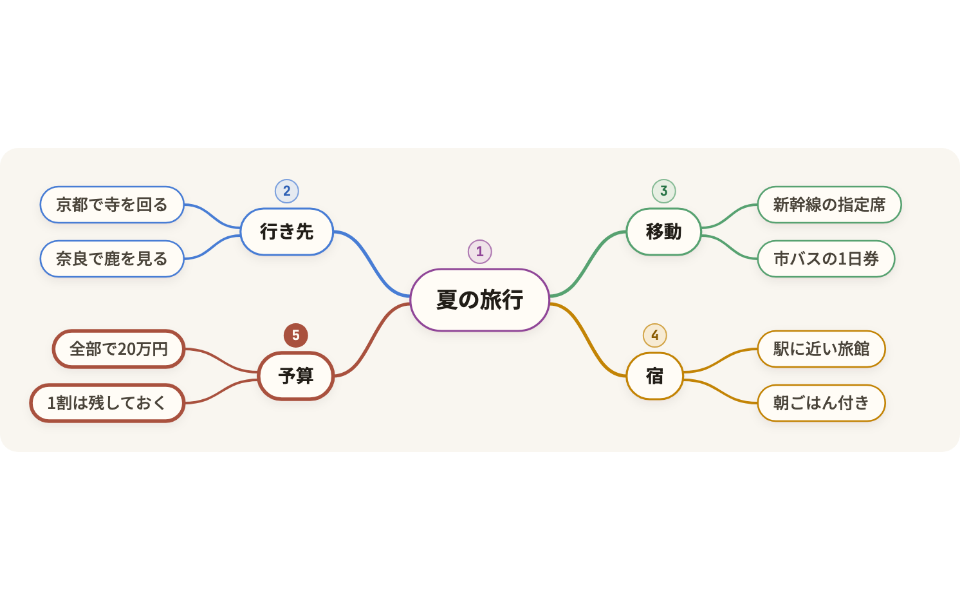
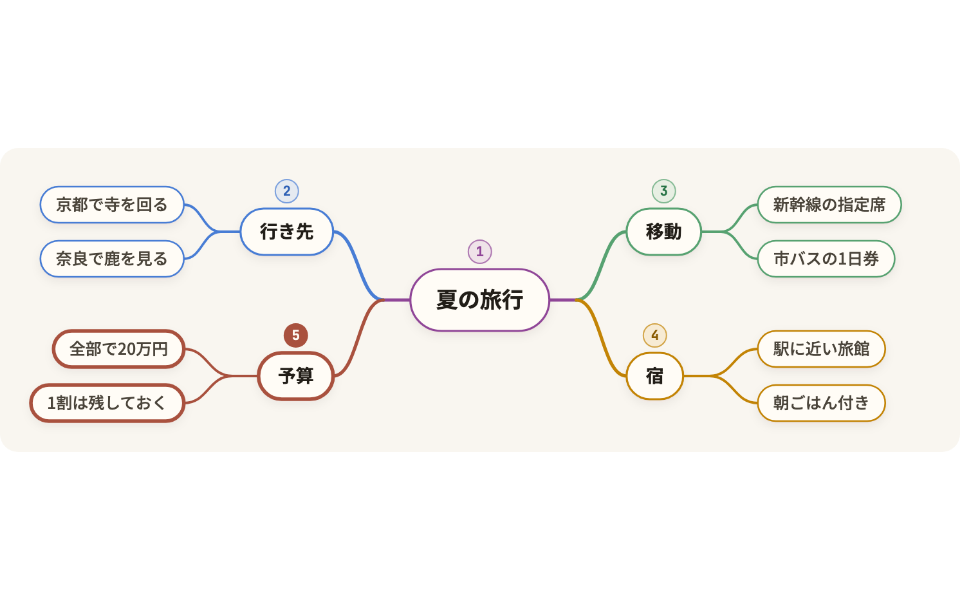
🎨 chore(版): マインドマップの線を幹にまとめる変更 (#3960) を0.86.0として出す (#3988)
packageとプラグインの版、変更の一覧の0.86.0の節、jsDelivrの1行、版の札、前提の配り方の行を0.86.0に上げる。
#3960のPRで描き直していなかったREADMEのマインドマップの絵4枚を、幹の形で描き直す。

diff --git a/packages/dragon/test/cdn-page-support.ts b/packages/dragon/test/cdn-page-support.ts
@@ -36,7 +36,7 @@ export type SiteFiles = Readonly<Record<string, string | Buffer>>;
 /** script の1行の入口を読む HTML の頁。`body` は頁の中身 */
 export const cdnPage = (body: string, lang = "ja"): string =>
   `<!doctype html><html lang="${lang}"><head><meta charset="utf-8"><meta name="viewport" content="width=device-width, initial-scale=1">` +
-  `<script type="module" src="https://cdn.jsdelivr.net/npm/@cardenelabs/dragon@0.85/dist/cdn/dragon.js"></script></head><body>${body}</body></html>`;
+  `<script type="module" src="https://cdn.jsdelivr.net/npm/@cardenelabs/dragon@0.86/dist/cdn/dragon.js"></script></head><body>${body}</body></html>`;
 
 /** HTML の字として書けるよう、`<` と `&` を逃がす */
 export const escapeHtml = (text: string): string =>

diff --git a/apps/playground-spa/src/docs/content.ts b/apps/playground-spa/src/docs/content.ts
@@ -123,7 +123,7 @@ export const COMMANDS: Partial<Record<SectionId, readonly (string | null)[]>> = 
   embed: [
     null,
     [
-      '<script type="module" src="https://cdn.jsdelivr.net/npm/@cardenelabs/dragon@0.85/dist/cdn/dragon.js"></script>',
+      '<script type="module" src="https://cdn.jsdelivr.net/npm/@cardenelabs/dragon@0.86/dist/cdn/dragon.js"></script>',
       "",
       '<pre class="dragon" data-header>',
       "sequence Take an order",

diff --git a/packages/dragon/README.md b/packages/dragon/README.md
@@ -163,7 +163,7 @@ The block turns into a diagram that plays.
 There is nothing to install or build.
 
 ```html
-<script type="module" src="https://cdn.jsdelivr.net/npm/@cardenelabs/dragon@0.85/dist/cdn/dragon.js"></script>
+<script type="module" src="https://cdn.jsdelivr.net/npm/@cardenelabs/dragon@0.86/dist/cdn/dragon.js"></script>
 
 <pre class="dragon">
 sequence Ask to sign in
@@ -470,7 +470,7 @@ A new notation word gets its element with the next release, so `dragon convert d
 HTML does not close `<dg-box/>`, so close every element with its end tag.
 
 ```html
-<script type="module" src="https://cdn.jsdelivr.net/npm/@cardenelabs/dragon@0.85/dist/cdn/dragon.js"></script>
+<script type="module" src="https://cdn.jsdelivr.net/npm/@cardenelabs/dragon@0.86/dist/cdn/dragon.js"></script>
 
 <dg-sequence title="Take an order">
   <dg-box id="shop">Shop</dg-box>
@@ -635,7 +635,7 @@ Custom buttons need a click handler, so they cannot go here.
 If the settings block is not valid JSON or names an unknown button, every `data-header` block shows that error instead.
 
 ```html
-<script type="module" src="https://cdn.jsdelivr.net/npm/@cardenelabs/dragon@0.85/dist/cdn/dragon.js"></script>
+<script type="module" src="https://cdn.jsdelivr.net/npm/@cardenelabs/dragon@0.86/dist/cdn/dragon.js"></script>
 
 <pre class="dragon" data-header>
 sequence Take an order

diff --git a/plugins/dragon/skills/dragon/references/embed.md b/plugins/dragon/skills/dragon/references/embed.md
@@ -17,7 +17,7 @@ All four draw the same diagram from the same notation. Check the notation with `
 Add `data-header` to the `<pre class="dragon">` block. Blocks without it stay plain diagrams. Pin the version to `<major>.<minor>` of the installed package.
 
 ```html
-<script type="module" src="https://cdn.jsdelivr.net/npm/@cardenelabs/dragon@0.85/dist/cdn/dragon.js"></script>
+<script type="module" src="https://cdn.jsdelivr.net/npm/@cardenelabs/dragon@0.86/dist/cdn/dragon.js"></script>
 
 <pre class="dragon" data-header>
 sequence Take an order
@@ -78,7 +78,7 @@ Words and numbers are attributes, a box name or a line label is the element text
 Close every element with its end tag. HTML does not close `<dg-box/>`.
 
 ```html
-<script type="module" src="https://cdn.jsdelivr.net/npm/@cardenelabs/dragon@0.85/dist/cdn/dragon.js"></script>
+<script type="module" src="https://cdn.jsdelivr.net/npm/@cardenelabs/dragon@0.86/dist/cdn/dragon.js"></script>
 
 <dg-sequence title="Take an order">
   <dg-box id="shop">Shop</dg-box>

diff --git a/CHANGELOG.md b/CHANGELOG.md
@@ -6,6 +6,8 @@ The same record in Japanese is in [`CHANGELOG.ja.md`](CHANGELOG.ja.md).
 
 ## [Unreleased]
 
+## [0.86.0] - 2026-11-26
+
 ### Changed
 
 - In a `mind` diagram, the lines from one idea to its children on the same side no longer leave the idea's edge at separate spots, which made a branch with many leaves look like a row of parallel lines stuck into its box. They now leave the middle of the edge as one short trunk in the idea's color, 35% of the way to the children, and split from the tip of the trunk into curves in each child's color. Lines from the centre to its branches take the same form on each side. The trunk is drawn with the first child on that side, and later children draw only their curve from the tip. `dragon check --layout` reads these lines as gathering into the parent, as it does for tree diagrams, so a branch with six leaves gets no warning (#3960)

diff --git a/.ikkan/premises/product.md b/.ikkan/premises/product.md
@@ -39,3 +39,4 @@
 0.83.0は、`check`を持たない`revert`の段でも落ちた箱に取り消しの印と理由の札を描く変更(#3974)を、既定の枝から出した(#3977)。
 0.84.0は、説明の頁のPDFで図の見出しの帯と題を図と同じ紙に留め、段の止め絵を紙の半分に収める印刷の直し(#3975)と、0.83.0で未公開へ戻した頁に置いた図の止め絵と過ぎた段の線の名前(#3831)を、既定の枝から出した(#3981)。
 0.85.0は、話題が2つ以上ある説明の頁を全体像の頁と問いごとの頁に分ける変更(#3983)を、既定の枝から出した(#3985)。
+0.86.0は、マインドマップで1つの親から子へ向かう線を親の縁の1か所から出る幹にまとめる変更(#3960)と、READMEのマインドマップの絵の描き直しを、既定の枝から出した(#3988)。

diff --git a/CHANGELOG.ja.md b/CHANGELOG.ja.md
@@ -6,6 +6,8 @@ dragon DSL の主要変更履歴。
 
 ## [Unreleased]
 
+## [0.86.0] - 2026-11-26
+
 ### Changed
 
 - 考えを広げる地図 (`mind`) で、1つの考えから同じ側の子へ向かう線が考えの縁の別々の所から出るのをやめた。葉の多い枝では線が箱に平行に何本も刺さり、どこで分かれるか読めなかった。線は縁の高さの真ん中から考えの色の短い幹として子の縁までの35%だけ出て、幹の先の1点から子の色の曲線に分かれる。真ん中の題から枝への線も左右それぞれ同じ形になる。幹はその側で最初に書いた子と一緒に引き、後の子は幹の先から曲線だけを引く。`dragon check --layout`はこの線を、階層図と同じく親へ集まる線として読むので、葉が6枚の枝でも知らせない (#3960)
